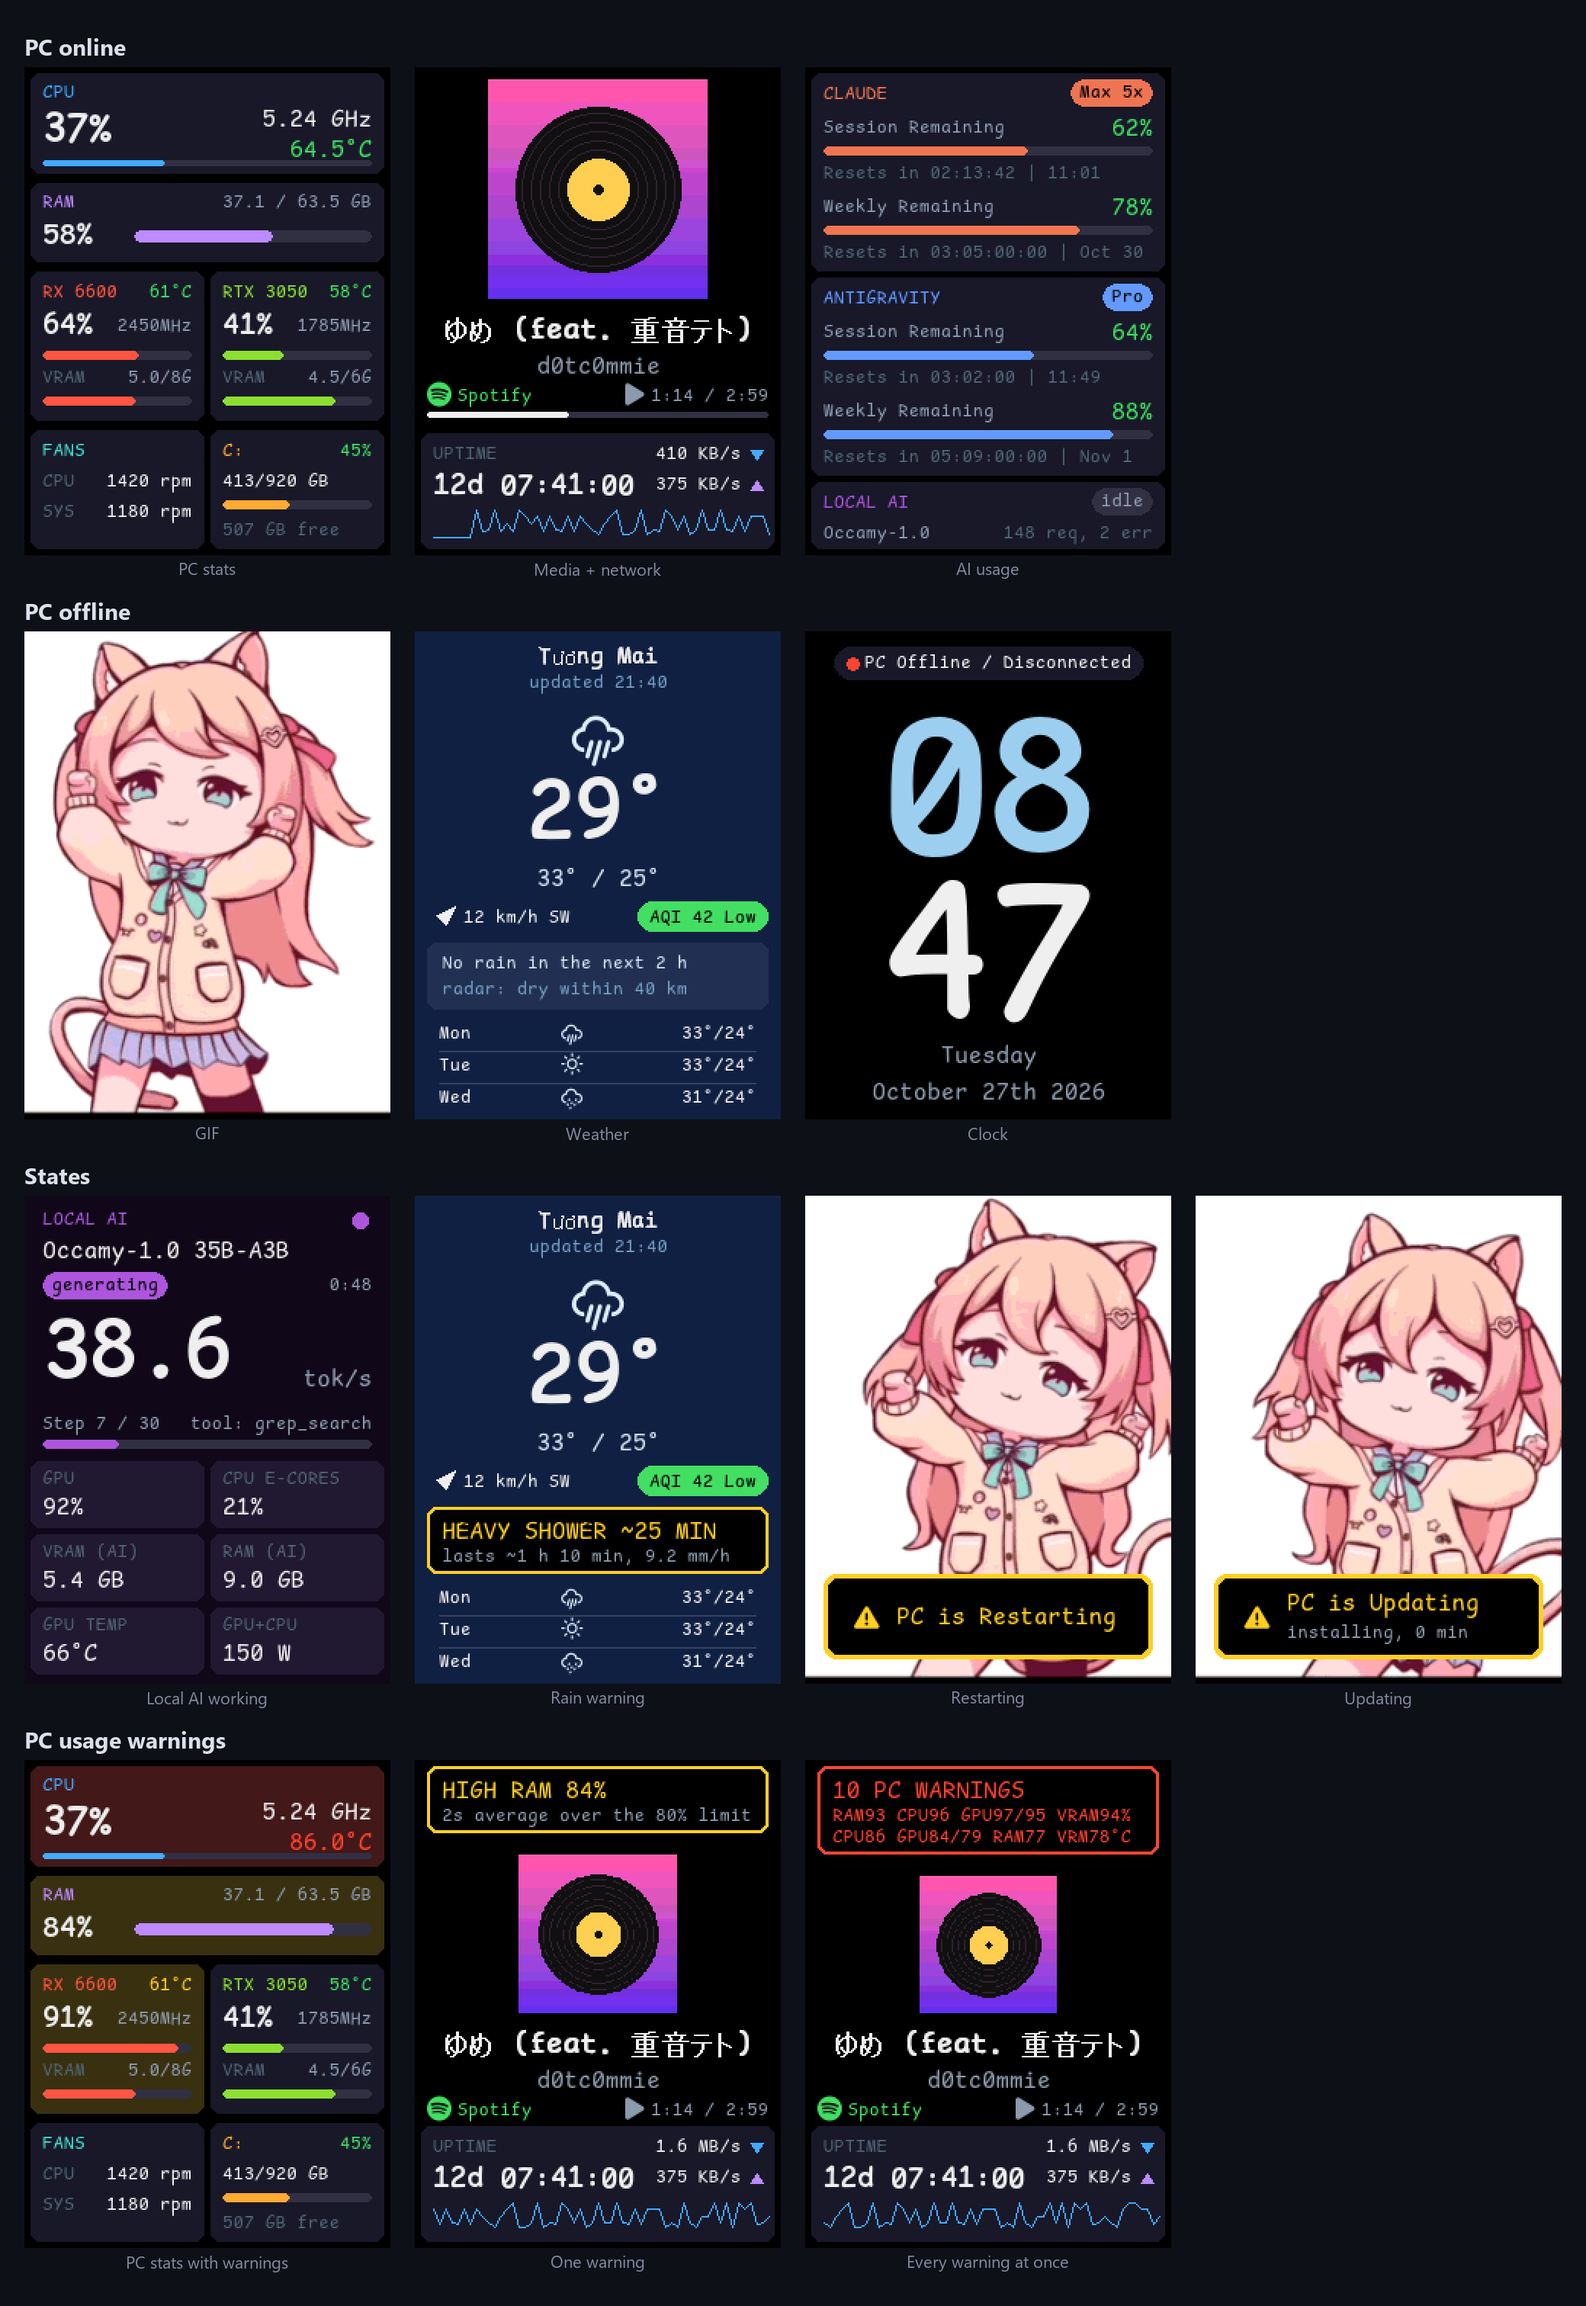
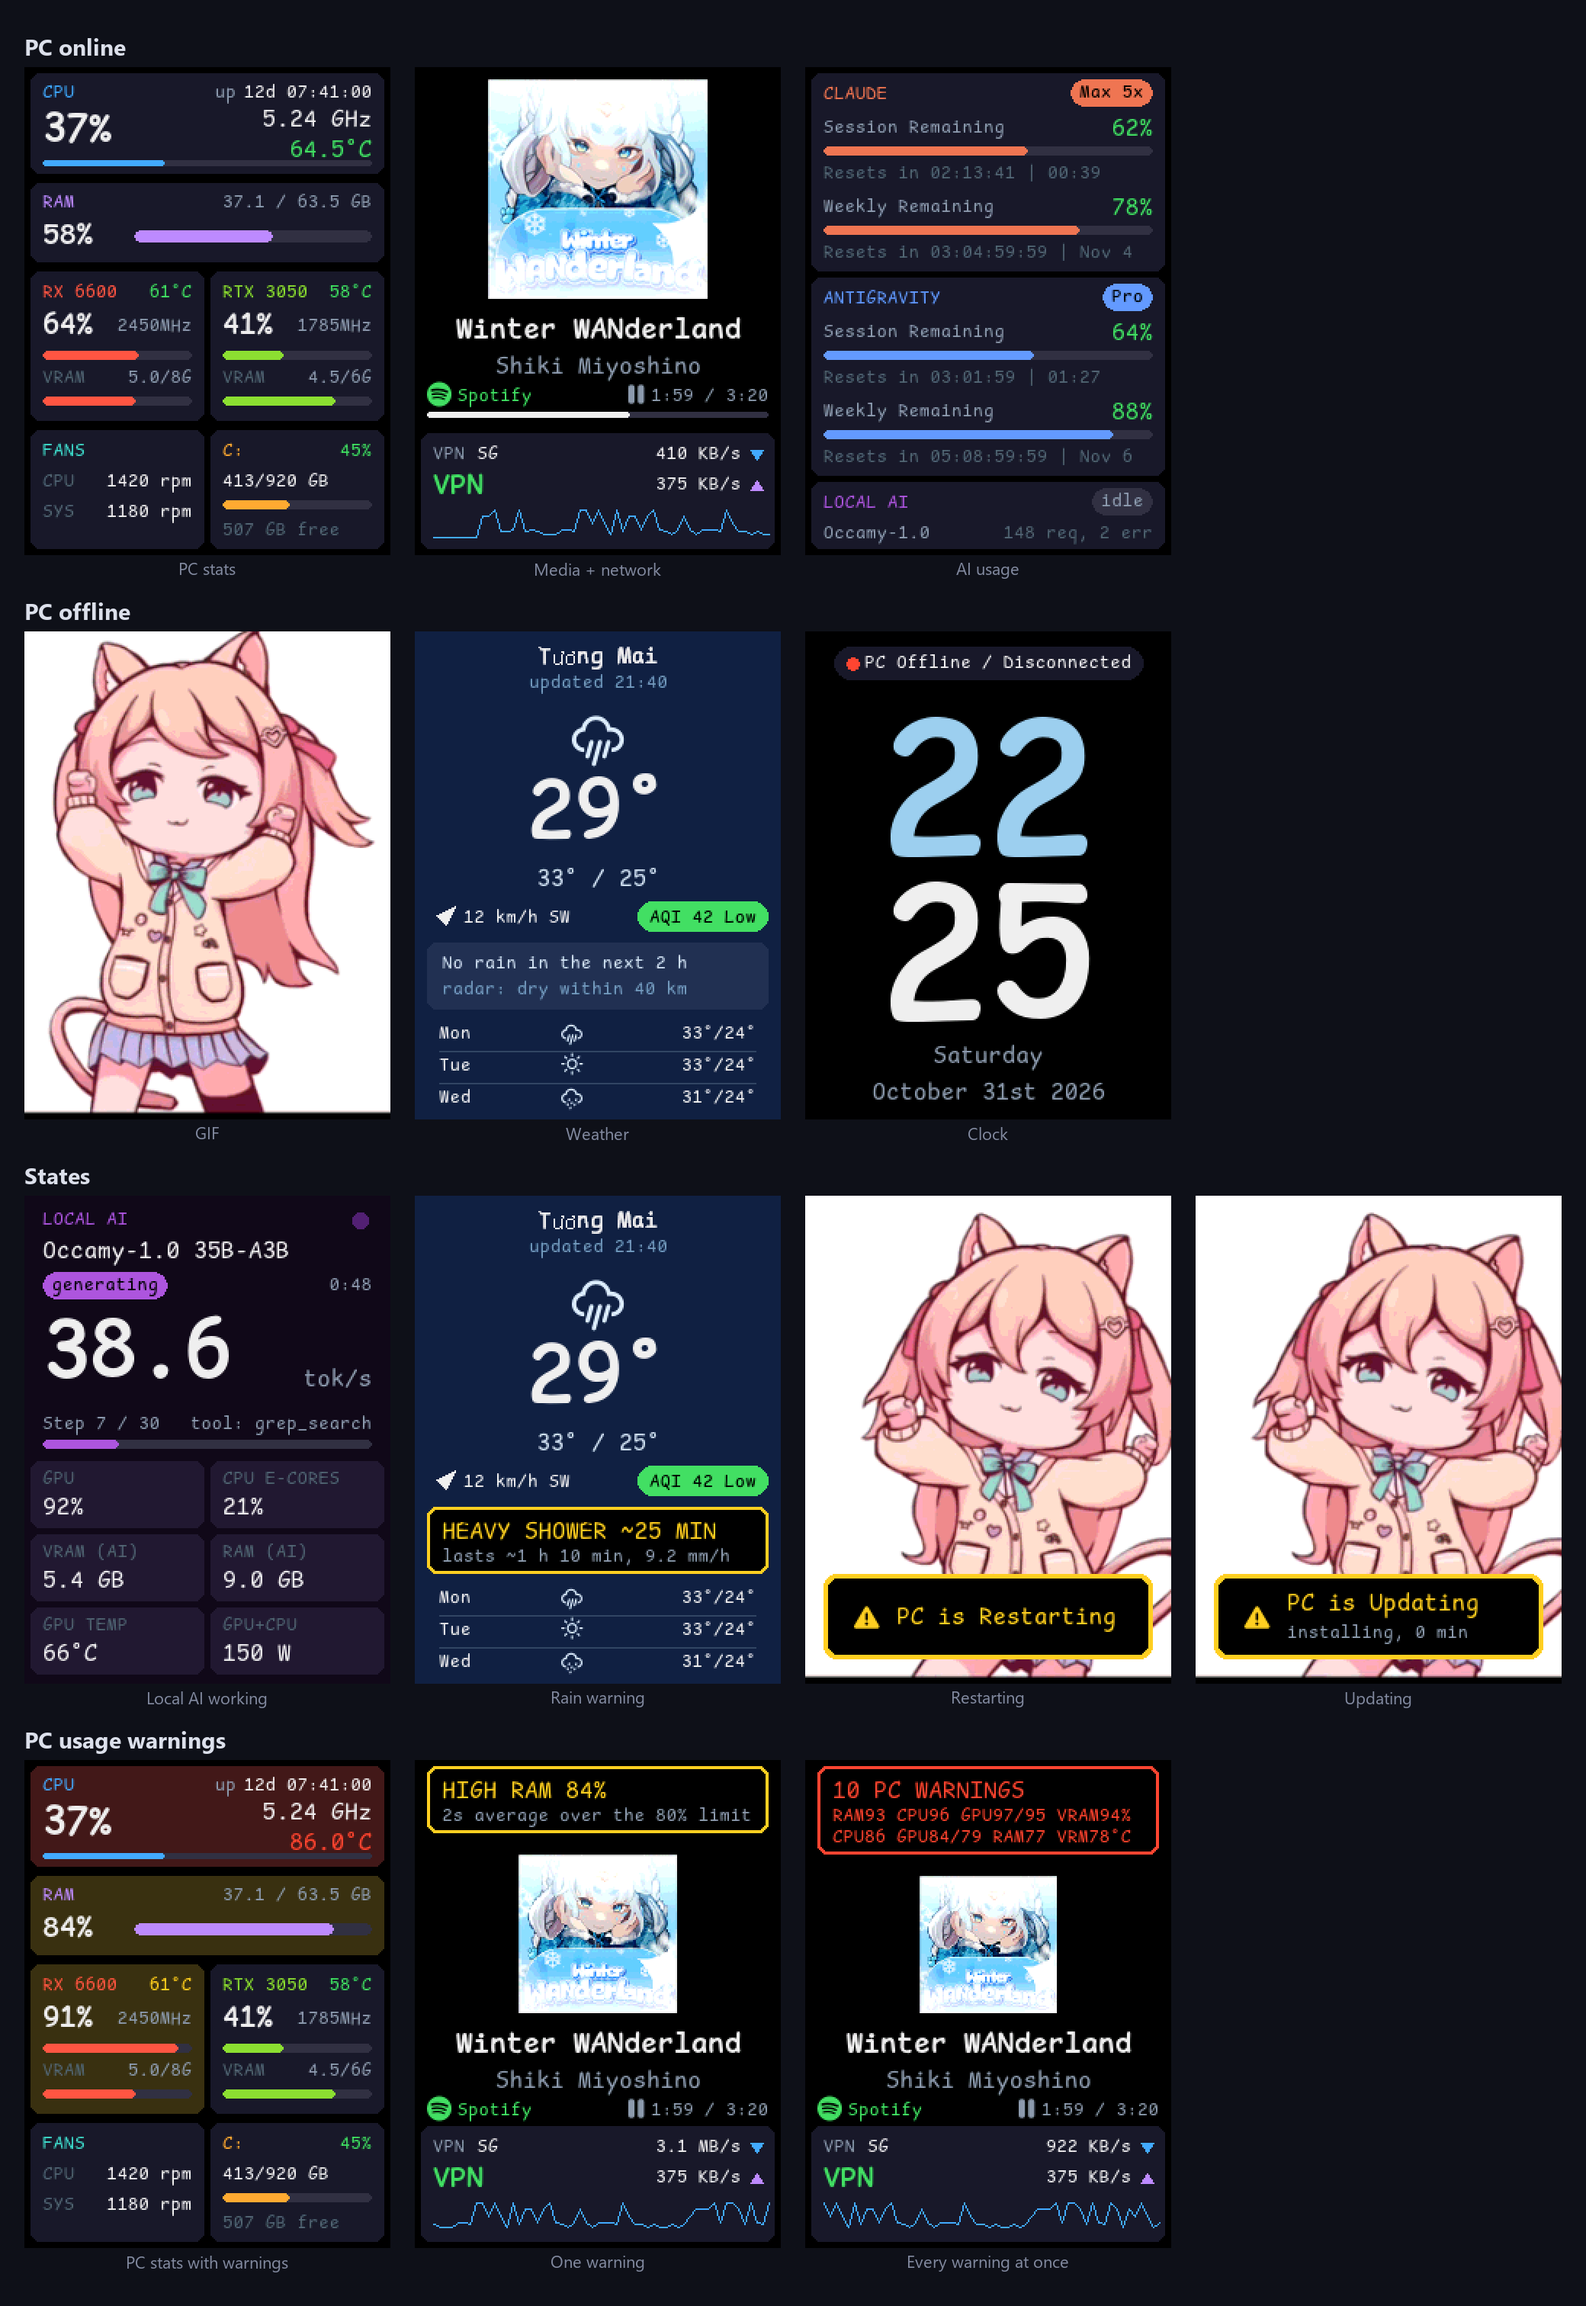
feat(screens): uptime in the CPU card, VPN status on the media face
- PC stats: the PC's uptime in the CPU card's header ("up 12d 07:41:00")
- media face: the bottom card keeps its old layout; where the uptime was
  it shows PcHwCtl's VPN check: exit country over the tunnel stack
  (WARP, VPN, WARP+VPN, Off). Green when the exit is abroad, amber when
  it is the home country (learned with no tunnel, kept in NVS)
- helper: hw.vpn*, hw.exit_* forwarded as pc.vpn*, pc.exit_*; the board
  keeps 80 texts (was 64)
- readme_shots.py --real-media: the playing track and its cover art;
  README image re-captured

Assisted by Claude Code

diff --git a/firmware/main/screens.cpp b/firmware/main/screens.cpp
@@ -4,6 +4,7 @@
 
 #include <ctype.h>
 #include <math.h>
+#include <nvs.h>
 #include <stdio.h>
 #include <string.h>
 #include <time.h>
@@ -120,7 +121,7 @@ static void formatRate(double b, char *buf, size_t len) {
   if (isnan(b)) {
     snprintf(buf, len, "--");
   } else {
-    // no decimal from 100 up, so the rate stays clear of a 2-digit-day uptime
+    // no decimal from 100 up, so the rate stays clear of the VPN status
     bool mb = b >= 1048576.0;
     double v = mb ? b / 1048576.0 : b / 1024.0;
     snprintf(buf, len, v >= 100.0 ? "%.0f %s" : "%.1f %s", v, mb ? "MB/s" : "KB/s");
@@ -184,7 +185,7 @@ static void formatUptime(double uptimeSec, char *buf, size_t len) {
   uint32_t m = (s / 60) % 60;
   uint32_t sec = s % 60;
   if (d >= 100) {
-    // 3-digit days: seconds dropped so it stays clear of the net rates
+    // 3-digit days: seconds dropped so it stays short
     snprintf(buf, len, "%lud %02lu:%02lu", (unsigned long)d, (unsigned long)h, (unsigned long)m);
   } else if (d > 0) {
     snprintf(buf, len, "%lud %02lu:%02lu:%02lu", (unsigned long)d, (unsigned long)h, (unsigned long)m,
@@ -366,6 +367,61 @@ static inline void drawNetArrow(LGFX_Sprite &c, int x, int y, bool down, uint16_
   } else {
     c.fillTriangle(x, y + 6, x + 8, y + 6, x + 4, y, hex);
   }
+}
+
+// VPN status from PcHwCtl's check (pc.vpn_stack, pc.exit_loc): "VPN  VN" over
+// "WARP+VPN". Green when the exit is outside the home country, amber when it
+// isn't (WARP tunnels but keeps your location), dim "Off" without a tunnel.
+// The home country is the exit seen with no tunnel, kept in NVS.
+static void drawVpn(LGFX_Sprite &c, int x, int y) {
+  static char home[4];
+  static bool homeLoaded;
+  if (!homeLoaded) {
+    homeLoaded = true;
+    nvs_handle_t h;
+    size_t len = sizeof home;
+    if (nvs_open("screens", NVS_READONLY, &h) == ESP_OK) {
+      if (nvs_get_str(h, "vpn_home", home, &len) != ESP_OK) home[0] = 0;
+      nvs_close(h);
+    }
+  }
+  const char *kind = pcText("pc.vpn"), *stack = pcText("pc.vpn_stack"), *loc = pcText("pc.exit_loc");
+  if (strlen(loc) != 2) loc = "";   // "-" while PcHwCtl's trace has no answer
+  if (!strcmp(kind, "none") && loc[0] && strlen(loc) < sizeof home && strcmp(loc, home)) {
+    snprintf(home, sizeof home, "%s", loc);
+    nvs_handle_t h;
+    if (nvs_open("screens", NVS_READWRITE, &h) == ESP_OK) {
+      nvs_set_str(h, "vpn_home", home);
+      nvs_commit(h);
+      nvs_close(h);
+    }
+  }
+
+  char val[24];
+  uint16_t col = C_DIM;
+  if (!kind[0]) {
+    snprintf(val, sizeof val, "--");
+  } else if (!strcmp(kind, "none")) {
+    snprintf(val, sizeof val, "Off");
+  } else {
+    // "warp+vpn" -> "WARP+VPN"
+    const char *s = stack[0] && strcmp(stack, "none") ? stack : kind;
+    size_t i = 0;
+    for (; s[i] && i < sizeof val - 1; i++) val[i] = (char)toupper((unsigned char)s[i]);
+    val[i] = 0;
+    col = (loc[0] && home[0] && !strcmp(loc, home)) ? C_WARN : C_GOOD;
+  }
+  c.setFont(fontSmall());
+  c.setTextColor(C_DIM);
+  c.setTextDatum(lgfx::textdatum_t::top_left);
+  c.drawString("VPN", x, y);
+  if (loc[0]) {   // the exit's country
+    c.setTextColor(C_TEXT);
+    c.drawString(loc, x + c.textWidth("VPN") + 8, y);
+  }
+  c.setFont(fontHead());
+  c.setTextColor(col);
+  c.drawString(val, x, y + 16);
 }
 
 // Warning overlay box for restarting / updating on GIF faces.
@@ -658,8 +714,17 @@ static void drawPcStats(LGFX_Sprite &c) {
   c.setTextDatum(lgfx::textdatum_t::top_left);
   c.drawString("CPU", 12, 9);
 
+  // PC uptime in the CPU card's header, right of the label: the value bright,
+  // "up" dim
+  char buf[48], upBuf[32];
+  formatUptime(pcStat("uptime"), upBuf, sizeof(upBuf));
+  c.setTextColor(C_TEXT);
+  c.setTextDatum(lgfx::textdatum_t::top_right);
+  c.drawString(upBuf, 228, 9);
+  c.setTextColor(C_DIM);
+  c.drawString("up", 228 - c.textWidth(upBuf) - 5, 9);
+
   double cpuLoad = pcStat("cpu_load");
-  char buf[48];
   if (isnan(cpuLoad)) snprintf(buf, sizeof(buf), "--");
   else snprintf(buf, sizeof(buf), "%.0f%%", cpuLoad);
   c.setFont(fontBig());
@@ -912,19 +977,9 @@ static void drawMedia(LGFX_Sprite &c) {
     c.drawString("Nothing playing", 120, y0 + 100);
   }
 
-  // Uptime and Network throughput card
+  // VPN and Network throughput card (uptime lives in the PC stats face's CPU card)
   drawCard(c, 4, 240, 232, 76);
-  c.setFont(fontSmall());
-  c.setTextColor(C_FAINT);
-  c.setTextDatum(lgfx::textdatum_t::top_left);
-  c.drawString("UPTIME", 12, 246);
-
-  char upBuf[32];
-  formatUptime(pcStat("uptime"), upBuf, sizeof(upBuf));
-  c.setFont(fontHead());
-  c.setTextColor(C_TEXT);
-  c.setTextDatum(lgfx::textdatum_t::top_left);
-  c.drawString(upBuf, 12, 262);
+  drawVpn(c, 12, 246);
 
   // Network down throughput
   drawNetArrow(c, 220, 251, true, C_CPU);

diff --git a/scripts/readme_shots.py b/scripts/readme_shots.py
@@ -9,7 +9,11 @@ The cover art (generated here) and the title bitmap (rendered with the
 service's own GDI calls and font) are sent too, so the media face shows
 neither the track the PC is playing nor `?` for the Japanese title.
 
-  python scripts/readme_shots.py docs/images/screens.png [--port COM12] [--keep DIR]
+  python scripts/readme_shots.py docs/images/screens.png [--port COM12] [--keep DIR] [--real-media]
+
+--real-media keeps what the PC is playing: the board's live media.* values
+are read before the service stops, and the cover art the board already holds
+for that track is shown instead of the generated one.
 
 Needs an elevated shell (sc stop/start).
 """
@@ -19,6 +23,7 @@ import ctypes
 import os
 import random
 import subprocess
+import sys
 import threading
 import time
 import zlib
@@ -56,6 +61,7 @@ BASE_TEXT = {
     "claude.plan": "Claude Max 5x", "claude.s_pace_v": "ok",
     "agy.active": "user@example.com", "agy2.email": "user@example.com", "agy2.plan": "Pro",
     "ai.phase_name": "idle", "ai.tool": "grep_search",
+    "pc.vpn": "vpn", "pc.vpn_stack": "vpn", "pc.exit_loc": "SG",
 }
 LOCAL_AI_BUSY = ({"ai.phase": 4, "ai.active": 1}, {"ai.phase_name": "generating"})
 # PC usage warnings (pcwarn.cpp, default limits): fed as real stats so the
@@ -113,9 +119,11 @@ class Feeder:
             self.send(f"@{kind} d {b64[i:i + 160]}")
         self.send(f"@{kind} end {end_id} {zlib.crc32(data):08x}")
 
-    def send_media(self):
-        """Cover art and the non-ASCII title, which the board would ask the service for."""
-        self.send_blob("a", f"{ART_ID} 144 144 444", ART_ID, rgb444(cover()))
+    def send_media(self, real=False):
+        """Cover art and the non-ASCII title, which the board would ask the service for.
+        real: the board keeps the live track's art, only the title is sent."""
+        if not real:
+            self.send_blob("a", f"{ART_ID} 144 144 444", ART_ID, rgb444(cover()))
         title = self.text["media.title"]
         tid = zlib.crc32(title.encode("utf-8"))
         w, h, ascent, packed = render_text(title, *TITLE_FONT)
@@ -146,6 +154,36 @@ class Feeder:
         while not self.stop.is_set():
             self.frame()
             time.sleep(0.5)
+
+
+MEDIA_NUM = ("media.art_id", "media.pos_s", "media.len_s", "media.playing")
+MEDIA_TEXT = ("media.title", "media.artist", "media.source")
+
+
+def live_media(ser):
+    """The board's current media.* values (`pcstats`), or None when nothing plays."""
+    ser.reset_input_buffer()
+    ser.write(b"pcstats\n")
+    end, raw = time.time() + 3, b""
+    while time.time() < end:
+        raw += ser.read(4096)
+    num, text = {}, {}
+    for line in raw.decode("utf-8", "replace").splitlines():
+        parts = line.strip().split(None, 1)
+        if len(parts) != 2:
+            continue
+        k, v = parts
+        if k in MEDIA_TEXT and v.startswith('"') and v.endswith('"'):
+            text[k] = v[1:-1]
+        elif k in MEDIA_NUM:
+            try:
+                num[k] = float(v)
+            except ValueError:
+                pass
+    if not text.get("media.title") or not num.get("media.art_id"):
+        return None
+    num["media.ok"] = 1
+    return num, text
 
 
 def cover():
@@ -280,7 +318,19 @@ def main():
     ap.add_argument("out")
     ap.add_argument("--port", default="COM12")
     ap.add_argument("--keep", help="also save each capture here")
+    ap.add_argument("--real-media", action="store_true", help="show the track the PC is playing, with its cover art")
     a = ap.parse_args()
+
+    sys.stdout.reconfigure(errors="replace")   # a track title the console's code page lacks
+    real = None
+    if a.real_media:
+        with serial.Serial(a.port, 115200, timeout=0.5) as s:
+            real = live_media(s)
+        print(f"real media: {real[1]['media.title']} / {real[1].get('media.artist', '')}" if real
+              else "real media: nothing playing, using the made-up track")
+        if real:
+            BASE_STATS.update(real[0])
+            BASE_TEXT.update(real[1])
 
     subprocess.run(["sc", "stop", SERVICE], capture_output=True)
     time.sleep(2)
@@ -299,7 +349,7 @@ def main():
                 if setup:
                     feed.send(setup)
                 if face == "media":
-                    feed.send_media()
+                    feed.send_media(real is not None)
                 feed.send(f"face {panel} {face}")
                 # let the face render (and a GIF reach a real frame)
                 time.sleep(WARN_SETTLE_S if over and over[0].keys() & WARN_ALL[0].keys() else 2)

diff --git a/host/pc_stats/PcStats.cs b/host/pc_stats/PcStats.cs
@@ -723,11 +723,12 @@ partial class PcStats : ServiceBase {
   // PcHwCtl's power watcher (docs/ipc.md#power-actions-and-events there):
   // hw.going*, hw.last_down*, hw.wake_*, hw.update_pending* and hw.power_do*
   // go out as pc.*, and hw.update_running as pc.update (the board's name).
+  // Its VPN check (hw.vpn, vpn_by, vpn_stack, exit_ip/loc/warp) as pc.vpn* / pc.exit_*.
   static string BoardKey(string source, string key) {
     if (source != "hw") return key;
     if (key.StartsWith("hw.mon.", StringComparison.Ordinal)) return key.Substring(3);
     if (key == "hw.update_running") return "pc.update";
-    if (Regex.IsMatch(key, @"^hw\.((disp|sys|exec)_req|going|last_down|wake_|update_pending|power_do)")) return "pc" + key.Substring(2);
+    if (Regex.IsMatch(key, @"^hw\.((disp|sys|exec)_req|going|last_down|wake_|update_pending|power_do|vpn|exit_)")) return "pc" + key.Substring(2);
     return key;
   }
 

diff --git a/firmware/main/pcstats.h b/firmware/main/pcstats.h
@@ -41,7 +41,7 @@
 #include <stdint.h>
 
 #define PCSTATS_MAX 160
-#define PCSTATS_TEXT_MAX 64   // media.* and pc.going* pushed past the old 24
+#define PCSTATS_TEXT_MAX 80   // media.* and pc.going* pushed past the old 24, pc.vpn* past 64
 
 void pcStatsLine(const char *line);   // console hands '@' lines here (already wired in console.cpp)
 double pcStat(const char *key);        // NAN if unknown, empty, or no sample for 5 s

diff --git a/docs/build-and-flash.md b/docs/build-and-flash.md
@@ -45,7 +45,8 @@ python scripts/readme_shots.py docs/images/screens.png
 `panel_shot.py` saves one panel. `readme_shots.py` builds
 [images/screens.png](images/screens.png): it stops the stats service, feeds the board a made-up stats frame,
 forces every face in turn, captures it and tiles the results (run it from an
-elevated shell).
+elevated shell). `--real-media` keeps the track the PC is playing, with its real
+cover art, in place of the made-up one.
 
 ## Other uploads
 
